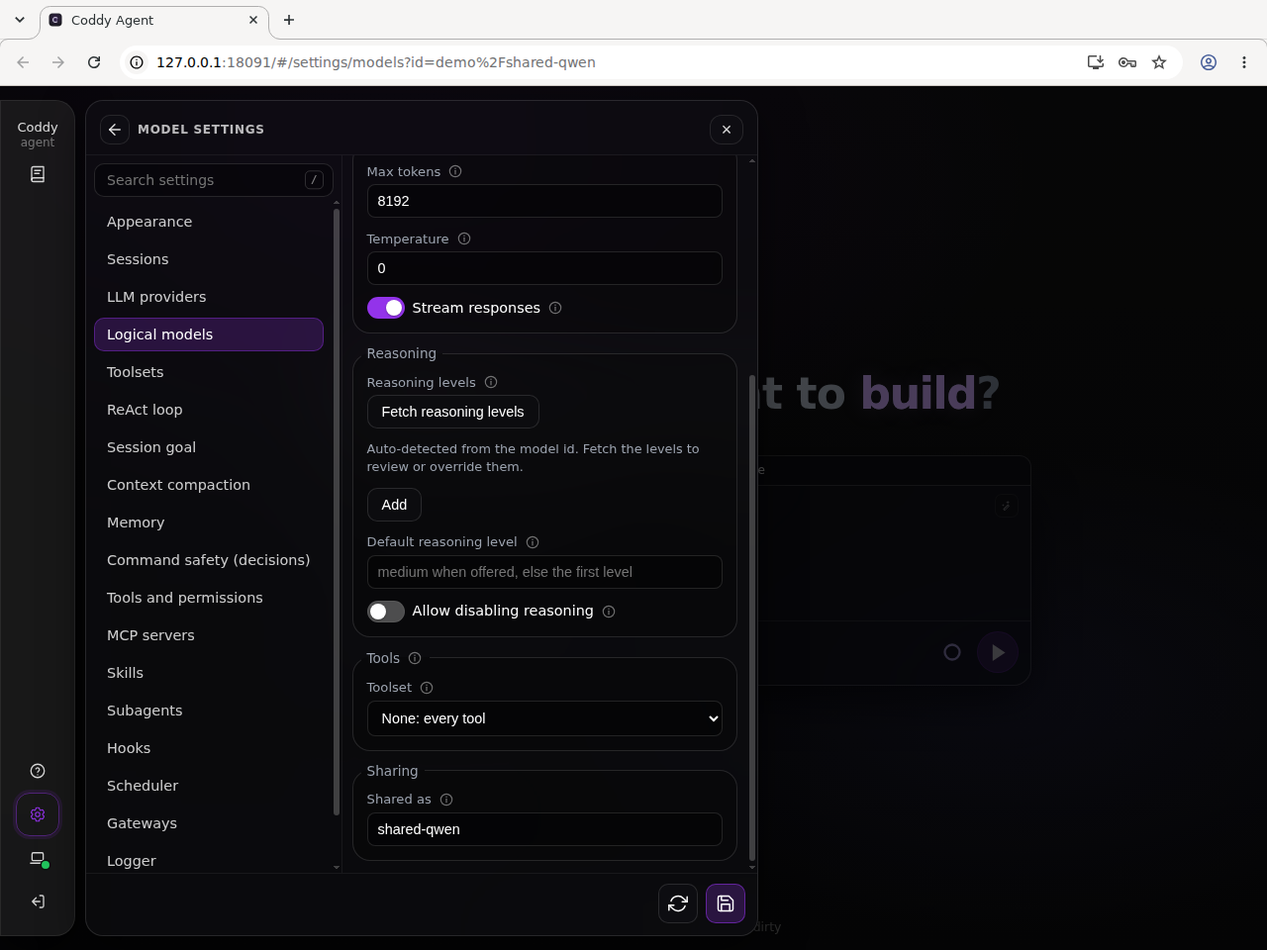
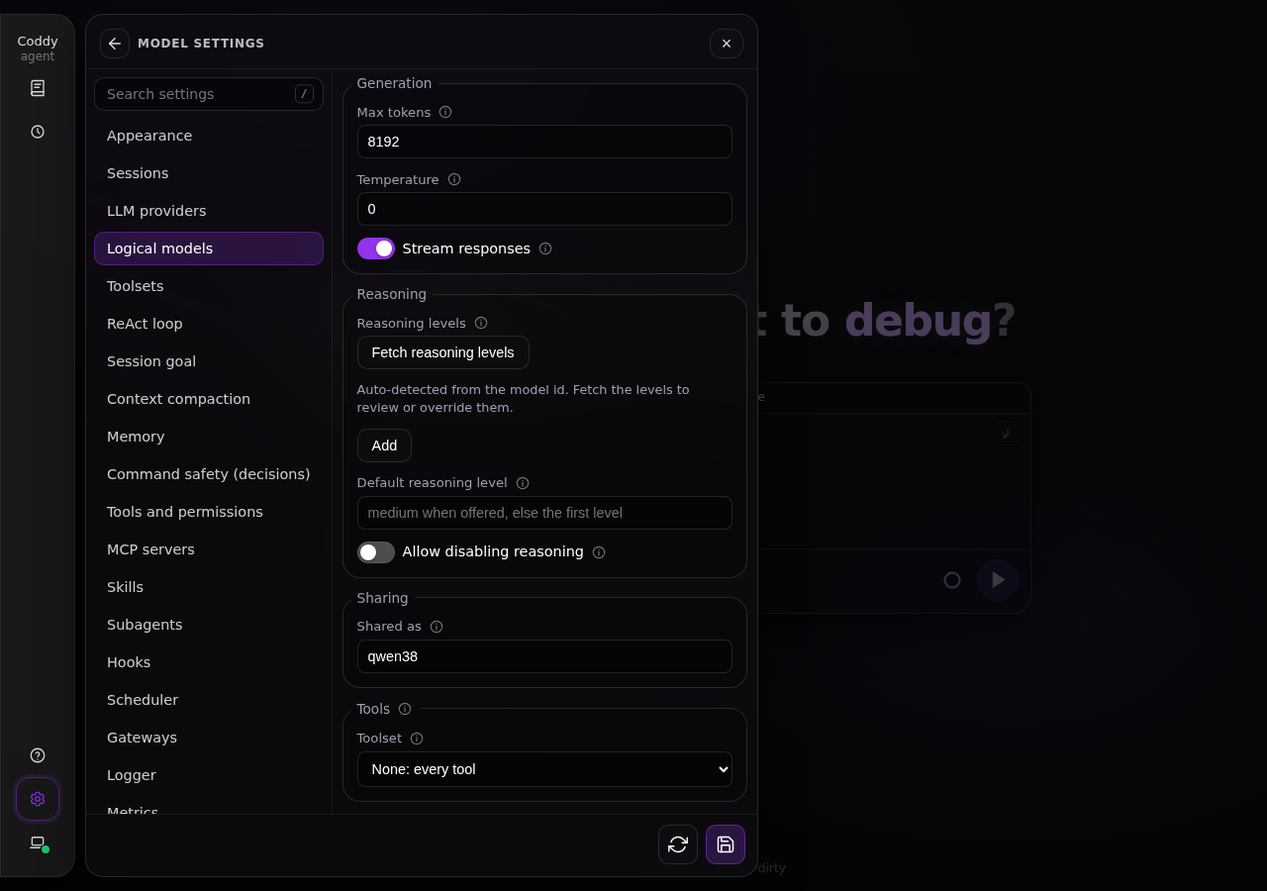
docs: the Sharing group, a coddy model's form and the model list badges
- DESIGN.md: Sharing among the logical model's blocks, after Reasoning;
  no alias and no Sharing group on a model a coddy provider serves, and
  the error a written one shows; the id and its badges in one wrapping
  cell; a group none of whose fields is drawn is left out, in the form
  and in the settings search.
- surfaces/web-ui.md and its translation: the same behaviour.
- swarm/shared-model-settings-dark-1280.png: retaken without the browser's
  address bar, with the Sharing group where the form now draws it.

diff --git a/DESIGN.md b/DESIGN.md
@@ -105,7 +105,7 @@ The **Settings** drawer (**`#/settings`**, **`Settings.tsx`**) is **tabbed**, no
   - **The files and the tests.** The pure core is **`settings/settingsSearch.ts`** (words, tiers, limit, marks, description line, the index, **`SETTINGS_LANDMARKS`**), tested by **`settingsSearch.test.ts`**; the reveal is **`settings/settingsReveal.ts`** (**`findSettingsBox`**, **`controlNamed`**, **`revealWhenReady`**, which returns its own cancel); the store, the field and the results are **`settings/SettingsSearchView.tsx`**; **`Settings.tsx`** places them and **`SettingsNav.tsx`** has a slot for the field. The drawer is pinned by **`Settings.test.tsx`** (**`describe("settings search")`**: **`/`** on a wide and a narrow screen, typing and choosing, the same choice twice, the provider fold and another row, duplicates, the kept query and the kept highlight, an emptied field, composition leaving the field alone, the focus rules, unsaved edits, Escape's steps, Telegram's Back, each hidden layer, a list edited after the index was built, a reveal giving up within its budget, a new choice or a closed drawer cancelling the ring, typing not re-rendering the tab, the head, no match, the active option, Russian and a relay, the Metrics tab with a binary that does not have it, the status debounce; the layers and the Russian and relay cases are tables), the address by **`scheduler/hashRoute.test.ts`** (written and read back, with a row and without, the encoding, the history sidebar kept) and **`App.settingsLink.test.tsx`** (a link opening its setting through the app), the boxes and the fold by **`SchemaForm.groups.test.tsx`**, the hidden pane by **`components/useEscapeCloses.test.tsx`**, the CSS by **`settingsFieldsetCss.test.ts`**, the schema copies by **`TestUISchemaTestdataIsCurrent`**, and the happy path by **`features/web_ui_settings_search.feature`** through **`external/ui/bdd_settings_search_test.go`**. The browser checks are the only ones that see real boxes, paint, bounds and focus. **`npm run check:settings-search`** (the Settings script's **`search`** scenario against an agent and a relay, at 320 to 1280px, in English and Russian) runs in CI, in Chromium, as a step of the Tests on PR job for **`http,scheduler,ui,memory,cli,swarm`**: with **`CODDY_BIN`** set and **`CODDY_SERVE_URL`** not, it starts both stands from that binary itself (**`scripts/settings-search-stands.mjs`**: temporary homes, free ports, the relay's client token through the environment, both stopped at exit; the agent has one provider **`demo`** and three logical models, **`demo/qwen3-27b`**, **`demo/qwen3-8b`** and **`demo/llama-3`**), and with **`CODDY_SERVE_URL`**, **`CODDY_RELAY_URL`** and **`CODDY_RELAY_TOKEN`** (a relay asks for its client token even on loopback) it uses stands you started. Besides the reveals it holds the life of the query to account: kept after a choice and brought back with the chosen option selected, the tiers, a click keeping the highlight, an emptied field, a hidden tab keeping its scroll position, Escape's order, the address with **`field=`**, opening a link, a search for a group and the **`/`** badge. WebKit (**`CODDY_ENGINE=webkit`**) and the **`settings`** scenario of **`npm run check:telegram`** (a touch context) are run by hand and reported in the pull request. Both checks go through **`scripts/settings-search-assert.mjs`**, which polls until the ring, the bounds and the focus hold at once, because a smooth scroll may still be running when the ring appears. Design record: **`docs/plans/settings-search.md`**; guide: **`docs/surfaces/web-ui.md`** (**Settings: search**).
 - **Secrets the server never sends back** (**`writeOnly`** in the schema, **`x-coddy-configured`** on the document): **`httpserver.auth_token`**, the sign-in password hash and the swarm tokens (**`swarm.auth_token`**, **`swarm.pairing_tokens`**, a join entry's **`pairing_token`** and **`token`**) come back from **`GET /coddy/config`** as a **`*_configured`** flag, never as a value. Such a field is a password input that is **empty** while a value is set and says so in its placeholder (**Set. Leave empty to keep it**, else **Not set**); leaving it empty keeps the stored value, typing replaces it. A list of secrets says how many are set and hidden in a state line under its legend (**`settings.secret.listSet`**, counted per locale), and the values entered in it replace them all. The two-way credentials - a provider's **`api_key`**, a remote's **`token`** - stay ordinary text fields, because the page needs their value.
 - **The relay's own Settings.** On a relay's home (the app on a relay, not on a node behind it) the drawer edits the relay's deployment: **`GET /coddy/config/schema`** answers with the relay's form (**`config.RelayUISchemaJSON`**: **`swarm`** and **`logger`** only, **`x-coddy-relay: true`** at the root), and **`deriveSettingsSections(schema, {relay: true})`** draws **Appearance** and those two tabs; the **Sessions** tab, which manages the stored sessions of an agent, is left out, even before the schema has arrived. The document is scoped the same way (**`configapi.Backend.Sections`**): **`GET /coddy/config`** serves only **`swarm`**, **`logger`** and the revision, and a save takes only those and refuses any other section, so a relay client never reads the host's provider keys or writes its other settings. **Save all** PUTs that document, and the relay applies the **`swarm`** section at once (a listen address that moved takes a restart); the **`logger`** section is read when the process starts next, as an agent's is. A node reached through a relay shows that node's own Settings; a node that is itself a relay refuses a write sent through the mount (**403**), so a relay is edited only on its own page.
-- **Section form layout** (**`SchemaForm`** **`groups`**, **`SchemaFormGroup`** **`{id, legend, description?, paths?, collapsible?}`**): a settings form is fieldsets by meaning, not a column of loose fields. A section's own **`enable`** switch opens the form **outside every fieldset**, above everything, wherever the schema puts it (Subagents, Hooks, Memory, Command safety, Context compaction, Scheduler). A group with **`paths`** takes exactly those keys; the **first** group without **`paths`** is the catch-all and takes every key no group names, except a list or a nested object, which stands as a **block of its own** beside it rather than inside it. Every group stands **where its first field stands** in the schema order, blocks stand in place, and a key no group takes (one added to the schema later) still renders in place, so nothing silently leaves the form. A group's **`description`** is the (i) of its legend. The groups of each tab live in **`objectSectionGroups`** (**`SettingsSection.tsx`**): **ReAct loop** (Model and turns, Retries, Stream timeouts, Loop guard, Usage limits), **Context compaction** (Automatic compaction: its switch and the threshold it fires at, inside the section's own switch rather than beside it; Summarization), **Memory** (Model and storage, then the fallback models as a block of their own, Instructions, Runs, Limits), **Command safety (decisions)** (Model and threshold), **Hooks** (Hook settings), **Scheduler** (Jobs), **Logger** (Logger settings); the **Logical models** row form (**Model**: provider, id, context window, multimodal; **Generation**: max tokens, temperature, streaming; **Reasoning**: the levels and the default; **Tools**: the toolset the model names, passed through **`SettingsArraySection`** like the provider form's blocks), **Subagents** (Subagent settings), the **Sessions** tab (Storage) and each part of the **Prompts** tab (**Prompt templates**, and **Instruction files** as a block of its own) pass their own. Inside a nested object a list keeps its frame - the Telegram admins, user groups and per-chat overrides, the web search engines: there it belongs to the block around it. **Lists**: an entry of a list of plain values is a **bare input** beside its trash (**`ArrayItemControl`**, named **&lt;list&gt; N** for assistive technology), with no per-row label such as **`dirs[0]`**, no rule under the row, and **Add** under the rows; an entry of a list of objects is a frame of its own **without a legend** (**`.settings-array-entry`**, named the same way). The trash carries no margin, so a row is exactly as tall as its input (**`settingsDrawerRhythmCss.test.ts`**). **Maps**: a map of plain values - an object with no properties of its own whose every value is a string (**`isStringMapSchema`**), such as **`tools.http_request.default_headers`** - is a block like a list, and an entry is a row of **two bare inputs**, the name and then the value (**`.settings-map-entry`**, the value wider), beside its trash, named **&lt;map&gt; N: name** and **&lt;map&gt; N: value**, with **Add** under the rows. The rows are the form's own (**`StringMapField`**): a row whose name is still empty stays on screen and out of the document, of two rows with one name the later one wins, and a document that stops matching the rows (a reload, a save from elsewhere) replaces them while rendering. An empty value is kept, since for the headers it means "leave this one out". Tests: **`SchemaForm.groups.test.tsx`**, **`SchemaForm.map.test.tsx`**.
+- **Section form layout** (**`SchemaForm`** **`groups`**, **`SchemaFormGroup`** **`{id, legend, description?, paths?, collapsible?}`**): a settings form is fieldsets by meaning, not a column of loose fields. A section's own **`enable`** switch opens the form **outside every fieldset**, above everything, wherever the schema puts it (Subagents, Hooks, Memory, Command safety, Context compaction, Scheduler). A group with **`paths`** takes exactly those keys; the **first** group without **`paths`** is the catch-all and takes every key no group names, except a list or a nested object, which stands as a **block of its own** beside it rather than inside it. Every group stands **where its first field stands** in the schema order, blocks stand in place, and a key no group takes (one added to the schema later) still renders in place, so nothing silently leaves the form. A group none of whose fields the form's override draws is left out, frame and legend, and the settings search skips it by the same answers (**`overrideTexts`**). A group's **`description`** is the (i) of its legend. The groups of each tab live in **`objectSectionGroups`** (**`SettingsSection.tsx`**): **ReAct loop** (Model and turns, Retries, Stream timeouts, Loop guard, Usage limits), **Context compaction** (Automatic compaction: its switch and the threshold it fires at, inside the section's own switch rather than beside it; Summarization), **Memory** (Model and storage, then the fallback models as a block of their own, Instructions, Runs, Limits), **Command safety (decisions)** (Model and threshold), **Hooks** (Hook settings), **Scheduler** (Jobs), **Logger** (Logger settings); the **Logical models** row form (**Model**: provider, id, context window, multimodal; **Generation**: max tokens, temperature, streaming; **Reasoning**: the levels and the default; **Sharing**: the alias and the subscription acknowledgement; **Tools**: the toolset the model names, passed through **`SettingsArraySection`** like the provider form's blocks), **Subagents** (Subagent settings), the **Sessions** tab (Storage) and each part of the **Prompts** tab (**Prompt templates**, and **Instruction files** as a block of its own) pass their own. Inside a nested object a list keeps its frame - the Telegram admins, user groups and per-chat overrides, the web search engines: there it belongs to the block around it. **Lists**: an entry of a list of plain values is a **bare input** beside its trash (**`ArrayItemControl`**, named **&lt;list&gt; N** for assistive technology), with no per-row label such as **`dirs[0]`**, no rule under the row, and **Add** under the rows; an entry of a list of objects is a frame of its own **without a legend** (**`.settings-array-entry`**, named the same way). The trash carries no margin, so a row is exactly as tall as its input (**`settingsDrawerRhythmCss.test.ts`**). **Maps**: a map of plain values - an object with no properties of its own whose every value is a string (**`isStringMapSchema`**), such as **`tools.http_request.default_headers`** - is a block like a list, and an entry is a row of **two bare inputs**, the name and then the value (**`.settings-map-entry`**, the value wider), beside its trash, named **&lt;map&gt; N: name** and **&lt;map&gt; N: value**, with **Add** under the rows. The rows are the form's own (**`StringMapField`**): a row whose name is still empty stays on screen and out of the document, of two rows with one name the later one wins, and a document that stops matching the rows (a reload, a save from elsewhere) replaces them while rendering. An empty value is kept, since for the headers it means "leave this one out". Tests: **`SchemaForm.groups.test.tsx`**, **`SchemaForm.map.test.tsx`**.
 - **List sections** (**LLM Providers**, **Logical Models**) are **master–detail** (**`SettingsArraySection`**): a list of named buttons (labelled by **`name`** / **`model`**) with **Add**/**Remove**; **Add** or selecting a row hides the list and shows the item form. **The way back is the drawer's head, on every width**: while a row form is open the head reads what the form is (**`settings.item.<section>`**: **Provider settings**, **Model settings**; the section's name for a list without one) behind the same round back arrow the narrow shell's section view uses (**`.settings-head-back`**, **`data-testid="settings-head-back"`**, named **Back to &lt;list&gt;**), and the arrow closes the form onto the list (**`closeSignal`**; the list reports **`onEditingChange`**, so a row with no name yet is covered too). With no row open the desktop head reads **Settings** and the narrow shell's head names the section with its arrow back to the tiles. **Escape** takes the step the arrow takes while the head shows one, and closes the drawer when it shows none (**Escape and the screens of the rail**). The form carries no back control of its own inside the drawer (**`hideBackLink`**); outside it, **`SettingsArraySection`** keeps a quiet link, **`.settings-back-link`**, the app's chevron pointing left and the list's name. The open row is in the address, **`#/settings/<section>?id=<name>`** (**`appNavHrefSettingsSection`**, the name URL-encoded, so **`demo/qwen3.8-27b`** travels as **`demo%2Fqwen3.8-27b`**): opening a row writes it, going back takes it out, renaming the open row rewrites it (all with **`replaceState`**, no history entries), the search adds **`&field=<anchor>`** for the setting it took the operator to (**Settings drawer**, **Search**, *Link to a setting*), and an address naming a row opens it - one that names no row (a typo, a row deleted since) shows the list and drops the dead name from the address. The row form is **keyed by the row**, so switching rows through the address (edit to edit, never through the list) mounts a fresh form and nothing a field remembers - the proxy URL, a filter, a fold - crosses rows; an open form whose index is gone from the document falls back to the list. A row with no name yet keeps the address on the list while its form stays open; the row already open under a name stays open when a rename makes two rows share it. **`SettingsArraySection.test.tsx`** pins both directions; the drawer hands the address row only to the section the address names (**`appearanceSettingsLayout.test.tsx`**), because the tab catches up one render late and another list used to take the name for one of its own, find none and rewrite the address. The component is **keyed by the section** in **`SettingsSection`**: both tabs render the same component at the same place in the tree, and without the key a row form opened under LLM Providers stayed on screen when the operator switched to Logical Models, showing the first model's form instead of the list.
 - **Codex provider authentication**: when a provider row has **`type: codex`**, **`api_base`**, **`api_key`**, and **`api_key_command`** controls are replaced by **Sign In with ChatGPT**. The device-flow card shows the one-time code, a link to the official verification page, waiting/completed/error state, and **Sign Out** for Coddy-managed credentials. The token is server-side only.
 - **Proxy settings** (**`ProxySettingField`**, rendered through **`SchemaForm`**’s **`fieldOverride`** hook on path **`proxy`** for every provider type, codex included, and on **`telegram.proxy`** in the Gateways tab's Telegram block): an **Ignore system proxy** **`SwitchField`** (**`data-testid="proxy-setting-direct"`**) above the **Proxy URL** input (**`data-testid="proxy-setting-url"`**), both direct children of the form so they keep its spacing. The switch description names whose requests go direct (the provider's, or the bot's). The switch owns the **`none`** value; with it on the input is disabled (the muted look **`.settings-input:disabled`** shares with read-only inputs), empty, and its placeholder reads **Direct connection**. With it off the input holds the proxy URL, and an empty one (no value, or a stored **`inherit`**, any case) reads **Follows the system proxy**. Turning the switch off restores the last value the row held that was not **`none`** (typed, pasted or reloaded); that memory lives in the field for as long as the item form is open - the form mounts afresh for every row - because the document keeps one value, so a saved **`none`** no longer knows the URL it replaced.
@@ -118,10 +118,10 @@ The **Settings** drawer (**`#/settings`**, **`Settings.tsx`**) is **tabbed**, no
 - **Logical Models** toolset (**`models[].toolset`**, the **Tools** block of the row form, last, under **Reasoning**): a plain **`select`** (**`data-testid="model-toolset"`**) over the presets of the **Toolsets** tab, **None: every tool** first; a name the presets no longer have stays on offer, so the form never rewrites it. **Toolsets** is a list tab of its own right after **Logical models** (rows labelled by **`name`**): a row is **Name**, then **Allowed tools** and **Disallowed tools**, two lists of plain values drawn by the generic list editor - an entry is a **bare input** beside its trash with **Add** under the rows, named **Allowed tools N** and **Disallowed tools N**. Entries are free text: no endpoint lists the tools of a build, so the form offers no suggestions, and a name that matches no tool is saved like any other (**`coddy -t`** warns about it). A preset the form adds starts with both lists empty, which means no restriction, and an empty list is never written to **`config.yaml`**. Renaming a preset renames it on the models that name it (**`applyToolsetsChange`**). Tests: **`SettingsSection.test.tsx`** (the model form's blocks, the toolset select, the Toolsets tab, in English and in Russian), **`applyModelsChange.test.ts`**, **`features/toolsets_web_ui.feature`**.
 - **Usage limits panel** (**`providers[].usage_limits_panel`**) is an ordinary **`SwitchField`** row at its schema position, rendered only for the provider types that have a usage source (**`neuraldeep`**, **`codex`**, **`devin`**, **`coddy`**, **`USAGE_PANEL_PROVIDER_TYPES`** in **`SettingsSection.tsx`**); for the other types the switch would change nothing, so it is not shown.
 - **Shared models** (**`SharedModelFields.tsx`**, the rules in **`sharedModels.ts`**, which mirror **`internal/config/shared_models.go`**; the server stays the judge). A logical model's form has a **Sharing** group (**`modelFormGroups`**) after Reasoning:
-  - **`SharedAsField`** (**`data-testid="shared-as-field"`**) is a plain **`.settings-input`** whose placeholder says that empty keeps the model private. An alias that breaks the pattern sets **`aria-invalid`** and shows the rule in a **`.settings-error`** line under the input (**`shared-as-error`**), tied to it through **`aria-describedby`**; an empty value is no error.
+  - **`SharedAsField`** (**`data-testid="shared-as-field"`**) is a plain **`.settings-input`** whose placeholder says that empty keeps the model private. An alias that breaks the pattern sets **`aria-invalid`** and shows the rule in a **`.settings-error`** line under the input (**`shared-as-error`**), tied to it through **`aria-describedby`**; an empty value is no error. A model served by a **`coddy`** provider cannot be lent again, so its form draws no alias and, with nothing else in it, no **Sharing** group; an alias already written on such a model stays on show with the **`servedByCoddy`** error until it is removed.
   - **`SharedSubscriptionAckField`** (**`.shared-ack`**) appears only while the row is shared and its provider runs on a subscription login (**`sharedSubscriptionAckNeeded`**; the search index skips it under the same rule). It is a **`SwitchField`** whose label ends in a muted **required** mark (**`.settings-required-mark`**, 0.75rem, **`var(--muted)`**), over a warning that names the provider and its type: **`.settings-error`** colour while the switch is off, the ordinary description colour once it is on.
   - A provider row of type **`coddy`** draws **`api_base`** as **`CoddyAPIBaseField`** (**`inputMode="url"`**, placeholder **`https://host:12345`**, **`data-testid="coddy-api-base"`**), and its Advanced group gains **Busy wait ms** (**`busy_wait_ms`**), which every other type hides through **`overrideTexts`**, so the search index skips it too.
-  - Its Models list adds badges after the id (**`.provider-models-item-badge`**: 11px, 1px 6px padding, 6px radius, **`var(--muted)`** on 7 % of the text colour, ellipsized at 16em): **images** for a model the remote lists as multimodal, and the listed reasoning levels joined by **` · `**, **`off`** last when the remote allows it, the full list in the tooltip. Only a **`coddy`** provider shows them. A model added from the list is seeded without **`max_context_tokens`**, **`multimodal`** and **`allow_reasoning_off`** (**`contextWindowToPin`**, **`seedLogicalModel`**), so it follows the listing.
+  - Its Models list adds badges after the id, in one cell with it (**`.provider-models-item-main`**: a wrapping flex row, 8px apart and 2px between lines, **`min-width: 0`**), so a row without room for both puts the badges under the id rather than cutting the id short (**`.provider-models-item-badge`**: 11px, 1px 6px padding, 6px radius, **`var(--muted)`** on 7 % of the text colour, ellipsized at **`min(16em, 100%)`**): **images** for a model the remote lists as multimodal, and the listed reasoning levels joined by **` · `**, **`off`** last when the remote allows it, the full list in the tooltip. Only a **`coddy`** provider shows them. A model added from the list is seeded without **`max_context_tokens`**, **`multimodal`** and **`allow_reasoning_off`** (**`contextWindowToPin`**, **`seedLogicalModel`**), so it follows the listing.
 - **Three-state field** (**`TriStateField`**, **`data-testid="tristate-<key>"`**) draws **`allow_reasoning_off`** of a model served by a **`coddy`** provider; for every other provider the key stays a **`SwitchField`**. It is one group of native radios (**`role="radiogroup"`**, named by the label) drawn as a segmented control: **`.tristate-options`** is an inline flex row in a 1px **`--coddy-glass-panel-border`** frame with a 10px radius, each **`.tristate-option`** at least 36px tall (44px below 1200px), 6px 14px padding, 0.9rem, divided from the next by a 1px border. The radio itself is transparent and covers its position, so the arrow keys move and select as in any radio group. The chosen position takes 22 % accent and weight 600, a keyboard-focused one a 2px accent outline inset by 2px. **Remote** writes nothing (the key leaves the row), **Yes** and **No** write **`true`** and **`false`**; the line under the group says whether the model follows the listing now.
 - **Reasoning levels of a `coddy` model** (**`ReasoningLevelsField`** with a **`coddy`** provider type): no **Fetch reasoning levels** button, a status line that says the remote decides, and, once the provider's listing answers (**`useAutoProviderModels`** with the provider row as the form holds it), a second description line (**`.reasoning-levels-remote`**, 4px closer to the status) with the levels the remote offers now. The button that removes an explicit list reads **Follow the remote**.
 - **Logical Models** reasoning-levels field (**`ReasoningLevelsField`**, rendered through **`SchemaForm`**’s **`fieldOverride`** hook on path **`reasoning_levels`**) owns the three states that key can be in and names the current one in a status line (**`data-testid="reasoning-levels-status"`**): **key absent** = levels auto-detected from the model id, **`[]`** = the composer reasoning selector is hidden for this model, **non-empty** = exactly these levels. The **Add** under the list keeps its own width (**`.settings-row-action`**, **`align-self: flex-start`**) rather than stretching across the field. An action row above the list carries **Fetch reasoning levels** (**`data-testid="reasoning-levels-fetch"`**, **`GET /coddy/config/reasoning-levels?model=&provider_type=`** for the id currently in the form and the type of the provider row it points at in the unsaved document, so it works before either entry is saved) and, whenever the key is present, **Use auto-detected** (**`data-testid="reasoning-levels-auto"`**) which drops the key again. A fetch that detects nothing leaves the field untouched rather than writing **`[]`**, because that would hide the selector instead of restoring detection. The status line always describes the list on screen first (override / hidden) and only falls back to fetch feedback (nothing detected / error) while the key is absent; retyping the model id or editing the list by hand clears that feedback and abandons the request in flight, so an answer that lands after the id changed, after a manual edit, or after the row was removed is dropped; an answer that does land goes through the newest **`onChange`** the form handed the field, never the one captured when the request started, so sibling fields edited meanwhile keep their values.

diff --git a/docs/surfaces/web-ui.md b/docs/surfaces/web-ui.md
@@ -113,8 +113,8 @@ Clear the field to use the session model for summarization.
 *A toolset: the allowlist of the tools a small local model needs, and a denylist applied after it.*
 
 - The **Usage limits panel** switch (`providers[].usage_limits_panel`) renders only for provider types with a usage source (`neuraldeep`, `codex`, `devin`, `coddy`); for the others it would change nothing.
-- **Sharing** holds `models[].shared_as`, the alias under which the model is offered to other Coddys ([Sharing a model with another Coddy](../operate/swarm.md#sharing-a-model-with-another-coddy)). Empty keeps the model private; an alias that breaks the pattern (1 to 64 letters, digits, dots, underscores or hyphens, starting with a letter or a digit) is marked under the field before Save, and the server stays the judge. When the model is shared and its provider runs on a subscription login (`codex`, `devin`, or `neuraldeep` with no key and no key command), the block adds the required `shared_subscription_ack` switch with a warning that names the provider; the warning stays in the error colour until the switch is on.
-- A provider of type **`coddy`** reaches the models another Coddy shares. Its **API base URL** is the address of the lender or of its relay mount (`https://host:12345`), and **Advanced settings** adds **Busy wait ms** (`busy_wait_ms`), which no other type shows. Its **Models** list marks a model the remote lists as taking pictures with **images** and shows the reasoning levels the remote lists, `off` after them when the remote allows it. A model added from that list is written without `max_context_tokens`, `multimodal` and `allow_reasoning_off`, so it follows the remote's listing instead of a copy of it.
+- **Sharing** holds `models[].shared_as`, the alias under which the model is offered to other Coddys ([Sharing a model with another Coddy](../operate/swarm.md#sharing-a-model-with-another-coddy)). Empty keeps the model private; an alias that breaks the pattern (1 to 64 letters, digits, dots, underscores or hyphens, starting with a letter or a digit) is marked under the field before Save, and the server stays the judge. When the model is shared and its provider runs on a subscription login (`codex`, `devin`, or `neuraldeep` with no key and no key command), the block adds the required `shared_subscription_ack` switch with a warning that names the provider; the warning stays in the error colour until the switch is on. A model served by a `coddy` provider cannot be lent again, so its form has no **Sharing** block; an alias already written on such a model stays on show, marked as an error, until it is removed.
+- A provider of type **`coddy`** reaches the models another Coddy shares. Its **API base URL** is the address of the lender or of its relay mount (`https://host:12345`), and **Advanced settings** adds **Busy wait ms** (`busy_wait_ms`), which no other type shows. Its **Models** list marks a model the remote lists as taking pictures with **images** and shows the reasoning levels the remote lists, `off` after them when the remote allows it; on a narrow screen these badges go under the id instead of cutting it short. A model added from that list is written without `max_context_tokens`, `multimodal` and `allow_reasoning_off`, so it follows the remote's listing instead of a copy of it.
 - In the form of a model served by a `coddy` provider, **Allow disabling reasoning** has three positions: **Remote** leaves `allow_reasoning_off` out and follows the listing, **Yes** and **No** write the key, and the line under them says which of the two the model does now. **Settings → ReAct loop** has a **Shared models** group with `agent.shared_busy_wait_ms`.
 - The Settings drawer is 680px wide on a desktop: enough for three theme cards a row on **Appearance** and a readable measure for the forms.
 - Automated checks: **`ProviderModelList.test.tsx`** (the fetch with the row as the form holds it and without the command, the refetch for a new id or type only, add and remove, the stale row, the error line, the context badge, the filter, the containment rules), **`ModelField.test.tsx`**, **`ContextWindowField.test.tsx`** (the reported window as the placeholder, the explicit fetch writing it, a late answer for a changed id dropped), **`SettingsArraySection.test.tsx`** (the address in both directions, the back link), **`SettingsSection.test.tsx`** (the three blocks of the provider form, the four blocks of the logical-model form, its toolset and the Toolsets tab in English and in Russian, the reported window seeded on add, the usage switch per provider type, the row form not surviving a tab switch), **`features/provider_models_web_ui.feature`** (**`external/ui/bdd_provider_models_ui_test.go`**), **`features/toolsets_web_ui.feature`** (**`external/ui/bdd_toolsets_ui_test.go`**), and on the API side **`features/provider_models_fetch.feature`** with **`external/httpserver/providers_models_http_test.go`**. Live check at **390px**: the provider form scrolls vertically only (`.settings-scroll` has `scrollWidth` equal to `clientWidth`), long ids ellipsize.

diff --git a/docs/assets/INDEX.md b/docs/assets/INDEX.md
@@ -336,7 +336,7 @@ Generated by `make docs`. "Used by" lists the files that reference the asset.
 | `permission-two-relays-dark-1280.png` | 183 KB | docs/operate/swarm.md, docs/ru/operate/swarm.md, docs/ru/tutorials/swarm-remote-nodes.md, docs/tutorials/swarm-remote-nodes.md |
 | `relay-needs-token-dark-1280.png` | 57 KB | docs/operate/swarm.md, docs/ru/operate/swarm.md |
 | `relay-settings-dark-1280.png` | 99 KB | docs/operate/swarm.md, docs/ru/operate/swarm.md |
-| `shared-model-settings-dark-1280.png` | 203 KB | docs/operate/swarm.md, docs/ru/operate/swarm.md |
+| `shared-model-settings-dark-1280.png` | 208 KB | docs/operate/swarm.md, docs/ru/operate/swarm.md |
 
 ### docs/assets/syntax-highlighting
 
